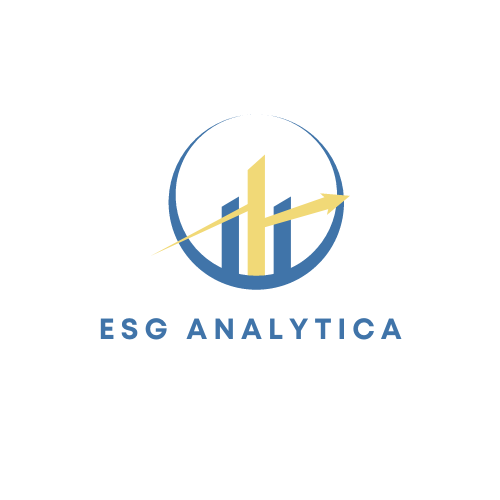
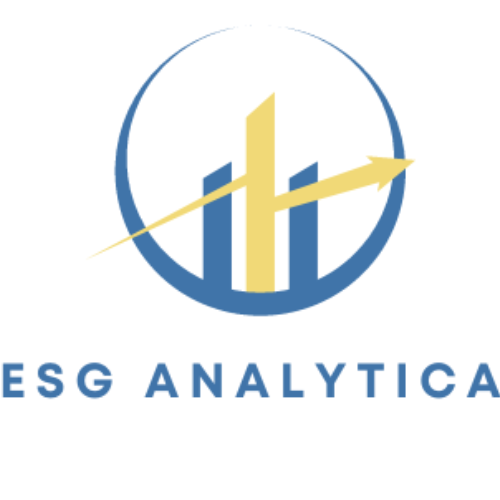
fix charts

diff --git a/frontend/src/app/personal-analysis/personal-analysis.component.html b/frontend/src/app/personal-analysis/personal-analysis.component.html
@@ -1,3 +1,35 @@
+<style>
+  .container {
+    margin-top: 200px;
+    text-align: center;
+  }
+
+  table {
+    width: 100%;
+    border-collapse: collapse;
+  }
+
+  th,
+  td {
+    border: 0px solid transparent;
+    padding: 8px;
+  }
+
+  button {
+    background-color: #007bff;
+    color: white;
+    border: none;
+    padding: 8px 16px;
+    text-align: center;
+    text-decoration: none;
+    display: inline-block;
+    font-size: 14px;
+    margin: 4px 2px;
+    cursor: pointer;
+    border-radius: 4px;
+  }
+</style>
+
 <div class="position-relative">
   <section class="section section-lg section-shaped pb-250">
     <div class="shape shape-style-1 shape-default">
@@ -5,23 +37,28 @@
         <div class="col px-0">
           <div class="row">
             <div class="col-lg-6">
-              <h1 class="display-3  text-white">Personal Analysis
-              </h1>
+              <h1 class="display-3  text-white">Comprehensive Analysis</h1>
             </div>
           </div>
         </div>
       </div>
     </div>
   </section>
-  <div class="container">
-    <h2>Diversity Chart</h2>
-    <div>
-    <canvas id="diversityChart" width="400" height="400"></canvas>
-    </div>
+</div>
 
-    <h2>Ethnicity Representation</h2>
-    <div>
-      <canvas id="ethnicityChart" width="400" height="400"></canvas>
+<div class="container">
+  <div class="row">
+    <div class="col-lg-6">
+      <h3>Diversity Chart</h3>
+      <div>
+        <canvas id="diversityChart" width="200" height="300"></canvas>
+      </div>
+    </div>
+    <div class="col-lg-6">
+      <h3>Ethnicity Representation</h3>
+      <div>
+        <canvas id="ethnicityChart" width="200" height="300"></canvas>
+      </div>
     </div>
   </div>
 </div>

diff --git a/frontend/src/app/personal-analysis/personal-analysis.component.ts b/frontend/src/app/personal-analysis/personal-analysis.component.ts
@@ -12,16 +12,16 @@ export class PersonalAnalysisComponent implements OnInit {
     labels: ["Male", "Female", "Other"],
     datasets: [{
       data: [60, 30, 10],
-      backgroundColor: ["#FF6384", "#36A2EB", "#FFCE56"],
+      backgroundColor: ["#36A2EB", "#FF6384", "#FFCE56"],
       borderWidth: 1,
       borderColor: "#ffffff"
     }]
   };
   ethnicityData: ChartData = {
-    labels: ["Asian", "Black", "Hispanic", "White", "Other"],
+    labels: ["Asian", "African-American", "Hispanic", "Caucasian", "Other"],
     datasets: [{
       data: [20, 15, 10, 45, 10],
-      backgroundColor: ["#FF6384", "#4BC0C0", "#FFCE56", "#E7E9ED", "#36A2EB"]
+      backgroundColor: ["#FF6384", "#4BC0C0", "#FFCE56", "#800080", "#36A2EB"]
     }]
   };
 
@@ -48,8 +48,28 @@ export class PersonalAnalysisComponent implements OnInit {
       {
       type: 'pie',
       data: this.ethnicityData,
-      options: this.options
-    });
+      options: {
+        ...this.options,
+        plugins: {
+        legend: {
+          display: true,
+          position: 'bottom'
+        },
+        tooltip: {
+          callbacks: {
+          label: (context) => {
+            const label = context.label || '';
+            const value = context.parsed?.value || 0;
+            const total = context.dataset?.data.reduce((a: number, b: number) => a + b, 0) || 0;
+            const percentage = total > 0 ? ((value / total) * 100).toFixed(2) : 0;
+            return `${label}: ${percentage}%`;
+          }
+          }
+        }
+        }
+      }
+      }
+    );
   }
 
 

diff --git a/frontend/src/app/shared/navbar/navbar.component.html b/frontend/src/app/shared/navbar/navbar.component.html
@@ -1,7 +1,7 @@
 <nav id="navbar-main" class="navbar navbar-main navbar-expand-lg navbar-transparent navbar-light headroom headroom--top headroom--pinned">
   <div class="container">
     <a class="navbar-brand mr-lg-5" [routerLink]="['/home']">
-      <img src="./assets/img/brand/icon.png">
+      <img src="./assets/img/brand/icon.png" style="width: 80px; height: 80px;">
     </a>
     <button class="navbar-toggler" type="button" (click)="isCollapsed = !isCollapsed"
           [attr.aria-expanded]="!isCollapsed" aria-controls="navbar_global">
@@ -32,7 +32,7 @@
           <a [routerLink]="['/user-profile']" class="nav-link">Profile</a>
       </li>
        <li class="nav-item">
-          <a [routerLink]="['/analysis']" class="nav-link">Personal Analysis</a>
+          <a [routerLink]="['/analysis']" class="nav-link">Comprehensive Analysis</a>
       </li>
         <li class="nav-item ml-auto">
           <a class="nav-link btn btn-outline-primary" [routerLink]="['/login']">Login</a>
